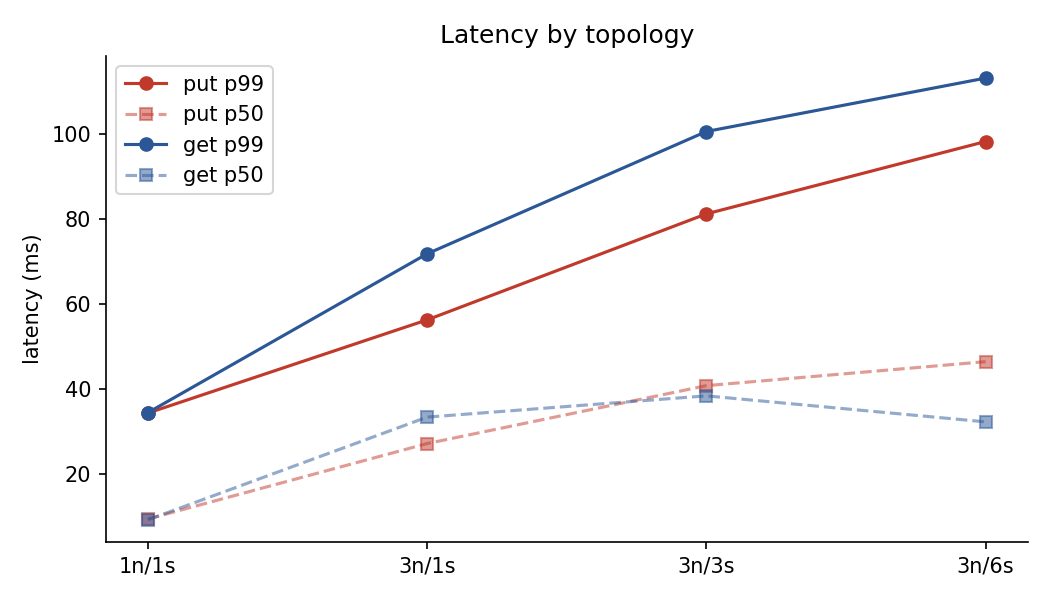
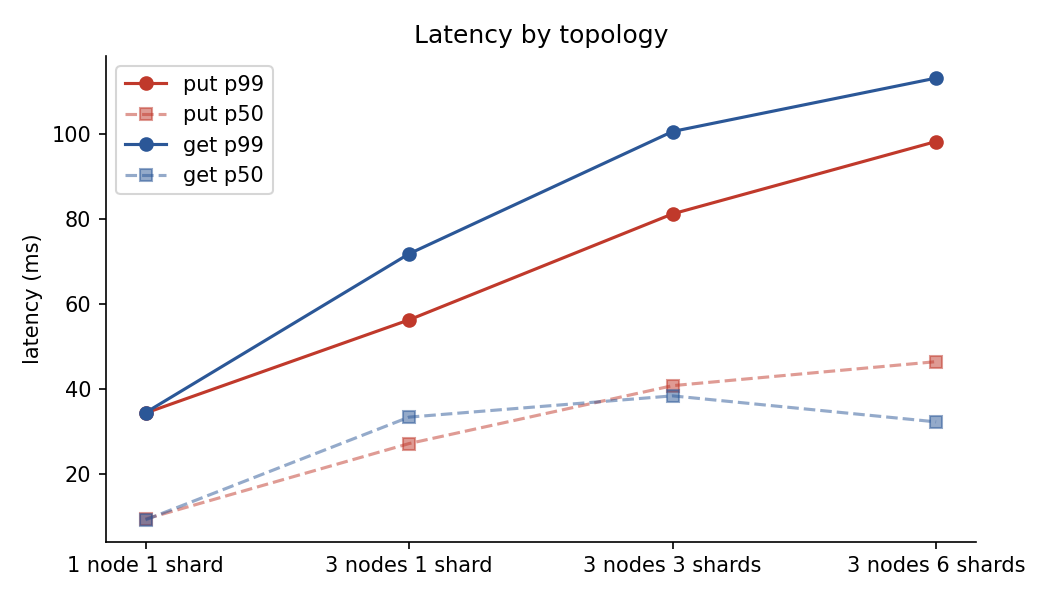
Add AWS experiment results; fix client header on the CDN path; bench/run-aws.sh
- bench/run-aws.sh runs the matrix against the Terraform cluster (load
  generator inside the VPC; CloudFront experiments from the laptop)
- pkg/client: CachedGet through the edge no longer sends X-Edgekv-No-Forward.
  CloudFront forwards viewer headers verbatim, so a non-leader origin answered
  421 instead of proxying.
- bench/plot.py takes an output dir and a name prefix
- docs/experiments.md: AWS section (sharding 1.9x, fsync 3.5x, 10k ops/s at
  500 clients, CloudFront staleness under TTL), deployment problems recorded

diff --git a/bench/plot.py b/bench/plot.py
@@ -1,7 +1,9 @@
 #!/usr/bin/env python3
-"""Render the charts in docs/charts/ from bench/results/local.jsonl.
+"""Render benchmark charts from a results file.
 
-    python3 bench/plot.py [bench/results/local.jsonl]
+    python3 bench/plot.py [results.jsonl] [out_dir] [name_prefix_to_strip]
+    python3 bench/plot.py                                   # local -> docs/charts/
+    python3 bench/plot.py bench/results/aws.jsonl docs/charts/aws aws-
 """
 import json
 import sys
@@ -13,13 +15,15 @@ matplotlib.use("Agg")
 import matplotlib.pyplot as plt
 
 src = Path(sys.argv[1] if len(sys.argv) > 1 else "bench/results/local.jsonl")
-out = Path("docs/charts")
+out = Path(sys.argv[2] if len(sys.argv) > 2 else "docs/charts")
+prefix = sys.argv[3] if len(sys.argv) > 3 else ""
 out.mkdir(parents=True, exist_ok=True)
 
 runs = OrderedDict()
 for line in src.read_text().splitlines():
     if line.strip():
         r = json.loads(line)
+        r["name"] = r["name"].removeprefix(prefix)
         runs[r["name"]] = r  # last run with a name wins
 
 def lat(r, op="all", p="p99"):
@@ -39,13 +43,14 @@ def bar(names, values, title, ylabel, fname, labels=None, color="#2b5797"):
 # 1. topology
 names = [n for n in ["topo-1node-1shard", "topo-3node-1shard", "topo-3node-3shard", "topo-3node-6shard"] if n in runs]
 if names:
+    tl = {"topo-1node-1shard": "1 node\n1 shard", "topo-3node-1shard": "3 nodes\n1 shard", "topo-3node-3shard": "3 nodes\n3 shards", "topo-3node-6shard": "3 nodes\n6 shards"}
     bar(names, [runs[n]["ops_per_s"] for n in names], "Throughput by topology (80/15/5, 50 clients, fsync on)",
-        "ops/s", "topology-throughput.png", labels=["1 node\n1 shard", "3 nodes\n1 shard", "3 nodes\n3 shards", "3 nodes\n6 shards"][:len(names)])
+        "ops/s", "topology-throughput.png", labels=[tl[n] for n in names])
     fig, ax = plt.subplots(figsize=(7, 4))
     for op, c in [("put", "#c0392b"), ("get", "#2b5797")]:
         ax.plot(range(len(names)), [lat(runs[n], op, "p99") for n in names], "o-", label=f"{op} p99", color=c)
         ax.plot(range(len(names)), [lat(runs[n], op, "p50") for n in names], "s--", label=f"{op} p50", color=c, alpha=.5)
-    ax.set_xticks(range(len(names))); ax.set_xticklabels(["1n/1s", "3n/1s", "3n/3s", "3n/6s"][:len(names)])
+    ax.set_xticks(range(len(names))); ax.set_xticklabels([tl[n].replace("\n", " ") for n in names])
     ax.set_ylabel("latency (ms)"); ax.set_title("Latency by topology"); ax.legend(); ax.spines[["top", "right"]].set_visible(False)
     fig.tight_layout(); fig.savefig(out / "topology-latency.png", dpi=150); plt.close(fig); print("wrote topology-latency.png")
 
@@ -92,10 +97,11 @@ if "dist-uniform" in runs and "dist-zipf" in runs:
     fig.tight_layout(); fig.savefig(out / "distribution.png", dpi=150); plt.close(fig); print("wrote distribution.png")
 
 # 5. cache
-cache = [n for n in ["cache-origin", "cache-edge-ttl5", "cache-edge-ttl30", "cache-edge-ttl60", "cache-invalidation-failed-ttl5"] if n in runs]
+cache = [n for n in ["cache-origin", "cache-edge-ttl5", "cache-cf-ttl5", "cache-edge-ttl30", "cache-cf-ttl30", "cache-edge-ttl60", "cache-invalidation-failed-ttl5"] if n in runs]
 if len(cache) > 1:
     fig, axes = plt.subplots(1, 3, figsize=(13, 4))
     labels = {"cache-origin": "origin\n(no cache)", "cache-edge-ttl5": "edge\nTTL 5s", "cache-edge-ttl30": "edge\nTTL 30s",
+              "cache-cf-ttl5": "CloudFront\nTTL 5s", "cache-cf-ttl30": "CloudFront\nTTL 30s",
               "cache-edge-ttl60": "edge\nTTL 60s", "cache-invalidation-failed-ttl5": "edge TTL 5s\ninvalidation\nFAILING"}
     lab = [labels[n] for n in cache]
     hit = [100 * runs[n].get("cache_hits", 0) / max(1, runs[n].get("cache_reads", 1)) for n in cache]

diff --git a/pkg/client/client.go b/pkg/client/client.go
@@ -146,7 +146,10 @@ func (c *Client) CachedGet(ctx context.Context, key string) (Entry, error) {
 	var hdr http.Header
 	var err error
 	if c.edge != "" {
-		hdr, err = c.request(ctx, c.edge, http.MethodGet, path, nil, nil, &out)
+		// Through the CDN the origin must forward on our behalf: the CDN
+		// forwards viewer headers verbatim, so an X-Edgekv-No-Forward here
+		// would make a non-leader origin answer 421 instead of proxying.
+		hdr, err = c.request(ctx, c.edge, http.MethodGet, path, nil, http.Header{"X-Edgekv-No-Forward": nil}, &out)
 	} else {
 		err = c.do(ctx, http.MethodGet, key, path, nil, &hdr, &out)
 	}
@@ -222,12 +225,21 @@ type redirectError struct {
 
 func (e *redirectError) Error() string { return "edgekv: not leader, redirected to " + e.leaderURL }
 
-func (c *Client) request(ctx context.Context, base, method, path string, body []byte, _ http.Header, out any) (http.Header, error) {
+// request performs one HTTP call. override lets a caller replace a default
+// header; a key with a nil value removes it.
+func (c *Client) request(ctx context.Context, base, method, path string, body []byte, override http.Header, out any) (http.Header, error) {
 	req, err := http.NewRequestWithContext(ctx, method, base+path, bytes.NewReader(body))
 	if err != nil {
 		return nil, err
 	}
 	req.Header.Set("X-Edgekv-No-Forward", "1")
+	for k, v := range override {
+		if v == nil {
+			req.Header.Del(k)
+		} else {
+			req.Header[k] = v
+		}
+	}
 	if body != nil {
 		req.Header.Set("Content-Type", "application/json")
 	}

diff --git a/docs/experiments.md b/docs/experiments.md
@@ -91,6 +91,67 @@ The stale-read rate rose 57×, but the maximum observed staleness of 4,762 ms st
 
 Measured by hand with `scripts/cluster.sh`: `kill -9` the leader of a shard while writing continuously — the first successful write landed **0.55 s** after the kill, consistent with the 300–600 ms election timeout plus one no-op commit.
 
-## To measure on AWS
+## AWS results
 
-After `terraform apply` (see `deploy/README.md`), re-run experiments 1, 2 and 5 with `edgekv-bench -nodes <EC2 IPs>` and `-edge <CloudFront URL>`. Expected, not yet measured: fsync cost drops from ~11 ms to ~1 ms; the sharding curve appears once each leader has its own EBS volume; CloudFront's invalidation propagation (seconds, versus the simulator's ~0) raises "TTL + invalidation" max staleness from ~200 ms to a few seconds while remaining under the TTL.
+Measured on the Terraform deployment in `deploy/terraform`: 3 × t3.small in us-west-2, one AZ each, one EBS gp3 (3000 IOPS) data volume per node, CloudFront in front. The load generator for experiments 1–3 ran inside the VPC on n1 (so it shares n1's 2 vCPUs — a small handicap for the cluster), because public-internet RTT would otherwise dominate closed-loop latency. Experiment 5 ran from a laptop in Los Angeles, through CloudFront, because that is the path real clients take. Raw data: `bench/results/aws.jsonl`; charts: `docs/charts/aws/`.
+
+### 1. Topology — the sharding curve appears
+
+![](charts/aws/topology-throughput.png)
+
+| Topology (fsync on, 50 clients) | ops/s | p50 | p99 | Local (same test) |
+|---|---|---|---|---|
+| 3 nodes, 1 shard | 2,433 | 19.7 ms | 40 ms | 1,521 |
+| 3 nodes, 3 shards | 2,991 | 14.0 ms | 72 ms | 1,237 |
+| 3 nodes, 6 shards | **4,534** | **10.2 ms** | 34 ms | 1,331 |
+
+On AWS, going from one shard to six raises throughput **1.9×** and halves the median latency. Locally the same change did nothing. The difference is exactly the precondition stated above: on EC2 each node has its own EBS volume and the leaders are spread across nodes (`n1` leads shards 0 and 3, `n2` 1 and 4, `n3` 2 and 5), so fsyncs on different shards proceed in parallel instead of queueing on one disk.
+
+### 2. Durability
+
+| 3 shards, 100% PUT, 50 clients | ops/s | p50 | p99 |
+|---|---|---|---|
+| fsync on | 2,298 | 19.8 ms | 53 ms |
+| fsync off | 8,002 | 4.5 ms | 28 ms |
+
+3.5× on AWS versus 10.8× locally. EBS gp3 acknowledges an fsync in roughly 1–2 ms where macOS `F_FULLFSYNC` takes ~11 ms, so durability is still the dominant cost of a write but no longer an order of magnitude.
+
+### 3. Concurrency
+
+![](charts/aws/concurrency.png)
+
+| Clients | ops/s | p50 | p95 | p99 |
+|---|---|---|---|---|
+| 1 | 335 | 2.0 ms | 8.2 ms | 8.8 ms |
+| 10 | 1,532 | 6.4 ms | 14 ms | 18 ms |
+| 50 | 3,000 | 14.6 ms | 34 ms | 60 ms |
+| 100 | 4,931 | 19.1 ms | 36 ms | 45 ms |
+| 500 | **9,988** | 46.7 ms | 88 ms | 113 ms |
+
+A single client sees 2 ms for a linearizable GET (one ReadIndex heartbeat round inside the VPC) and ~8 ms for a PUT (two fsyncs plus two round trips). Throughput climbs 30× to just under 10,000 ops/s at 500 clients while p99 stays at 113 ms — group commit works much better here than locally, because the per-flush cost it amortises is small enough that batches stay short.
+
+### 5. CloudFront: hit ratio, latency, staleness
+
+![](charts/aws/cache.png)
+
+Workload: 90% cached GET + 10% PUT on cacheable keys, 20 clients, from Los Angeles; the cluster is in Oregon.
+
+| | Hit ratio | Cached-read p50 | Stale reads | Max staleness | TTL |
+|---|---|---|---|---|---|
+| Origin only (LA → Oregon, linearizable) | 0% | 44.4 ms | 0 | 0 | — |
+| CloudFront, TTL 5 s | 83.5% | 24.4 ms | 2.98% | 3,379 ms | 5,000 ms |
+| CloudFront, TTL 30 s | 97.6% | 21.3 ms | 5.82% | 5,309 ms | 30,000 ms |
+
+Two things differ from the local simulator, both as predicted. First, the latency win is 2× rather than 10×: a cached read still costs one round trip to the nearest CloudFront edge (~20 ms from this laptop), whereas the simulator was on localhost. Second, CloudFront takes **3–5 s to propagate an invalidation** to its edges (the simulator took none), so the stale-read rate rises from 0.1% to a few percent and the maximum observed staleness lands at 3.4–5.3 s. **It stayed under the TTL in both configurations**, which is the contract: invalidation makes the common case better, the TTL bounds the worst case.
+
+The nodes issued the invalidations through their EC2 instance role (`edgekv_cdn_invalidations_total{result="ok"}` on each leader; `aws cloudfront list-invalidations` shows them all `Completed`).
+
+### Failover on AWS
+
+`docker kill` on the container leading shard 1, while writing continuously from another node: the first successful write landed **0.33 s** after the kill (0.55 s locally). After `docker start`, the node came back as a follower on all three shards and served the writes it had missed.
+
+### Deployment problems worth recording
+
+- CloudFront rejects `PUT/POST/DELETE` on a behaviour bound to an **origin group**; the default (write-capable) behaviour now targets a single origin, and only the GET-only `/v1/cache/*` behaviour uses the failover group.
+- The security group allowed 8080 from CloudFront and the operator but not between nodes, so leader forwarding over the private network timed out. Added a `self` rule.
+- The Go client sent `X-Edgekv-No-Forward` on every request. The local simulator strips it; CloudFront forwards viewer headers verbatim, so a non-leader origin answered 421 and the client counted an error. Cached reads through the CDN no longer send it.

diff --git a/docs/charts/aws/summary.md b/docs/charts/aws/summary.md
@@ -1,0 +1,15 @@
+| run | clients | ops/s | p50 ms | p95 ms | p99 ms | errors | cache hit % | stale % | max staleness ms |
+|---|---|---|---|---|---|---|---|---|---|
+| topo-3node-1shard | 50 | 2,433 | 19.65 | 32.01 | 40.02 | 0 | – | – | – |
+| topo-3node-3shard | 50 | 2,991 | 14.00 | 38.09 | 72.42 | 0 | – | – | – |
+| topo-3node-6shard | 50 | 4,534 | 10.16 | 24.06 | 33.59 | 0 | – | – | – |
+| fsync-on | 50 | 2,298 | 19.82 | 37.88 | 52.62 | 0 | – | – | – |
+| fsync-off | 50 | 8,002 | 4.50 | 15.62 | 27.98 | 0 | – | – | – |
+| clients-1 | 1 | 335 | 2.02 | 8.18 | 8.77 | 0 | – | – | – |
+| clients-10 | 10 | 1,532 | 6.39 | 13.78 | 17.70 | 0 | – | – | – |
+| clients-50 | 50 | 3,000 | 14.55 | 34.34 | 59.77 | 0 | – | – | – |
+| clients-100 | 100 | 4,931 | 19.13 | 35.82 | 45.39 | 0 | – | – | – |
+| clients-500 | 500 | 9,988 | 46.69 | 88.24 | 113.41 | 0 | – | – | – |
+| cache-origin | 20 | 387 | 44.39 | 120.18 | 131.89 | 0 | 0.0 | 0.00 | 0 |
+| cache-cf-ttl5 | 20 | 532 | 27.60 | 103.71 | 134.01 | 0 | 83.5 | 2.98 | 3379 |
+| cache-cf-ttl30 | 20 | 650 | 21.84 | 97.61 | 123.42 | 0 | 97.6 | 5.82 | 5309 |

diff --git a/README.md b/README.md
@@ -61,7 +61,7 @@ go test -race -short ./...     # skips the slow ones
 
 ## Benchmarks
 
-`bench/run-local.sh` runs the experiment matrix from the spec (topology, fsync cost, concurrency, key distribution, cache TTL vs staleness, invalidation failure) and `bench/plot.py` renders `docs/charts/`. Results and analysis: [docs/experiments.md](docs/experiments.md). Headline: with the invalidation API deliberately broken, maximum observed staleness stayed at 4.76 s under a 5 s TTL.
+`bench/run-local.sh` runs the experiment matrix from the spec (topology, fsync cost, concurrency, key distribution, cache TTL vs staleness, invalidation failure) and `bench/plot.py` renders `docs/charts/`. Results and analysis, local and AWS: [docs/experiments.md](docs/experiments.md). Headlines: on AWS, six shards give 1.9× the throughput of one; with CloudFront invalidation taking 3–5 s to propagate, maximum observed staleness stayed under the TTL.
 
 ## Deploy
 
